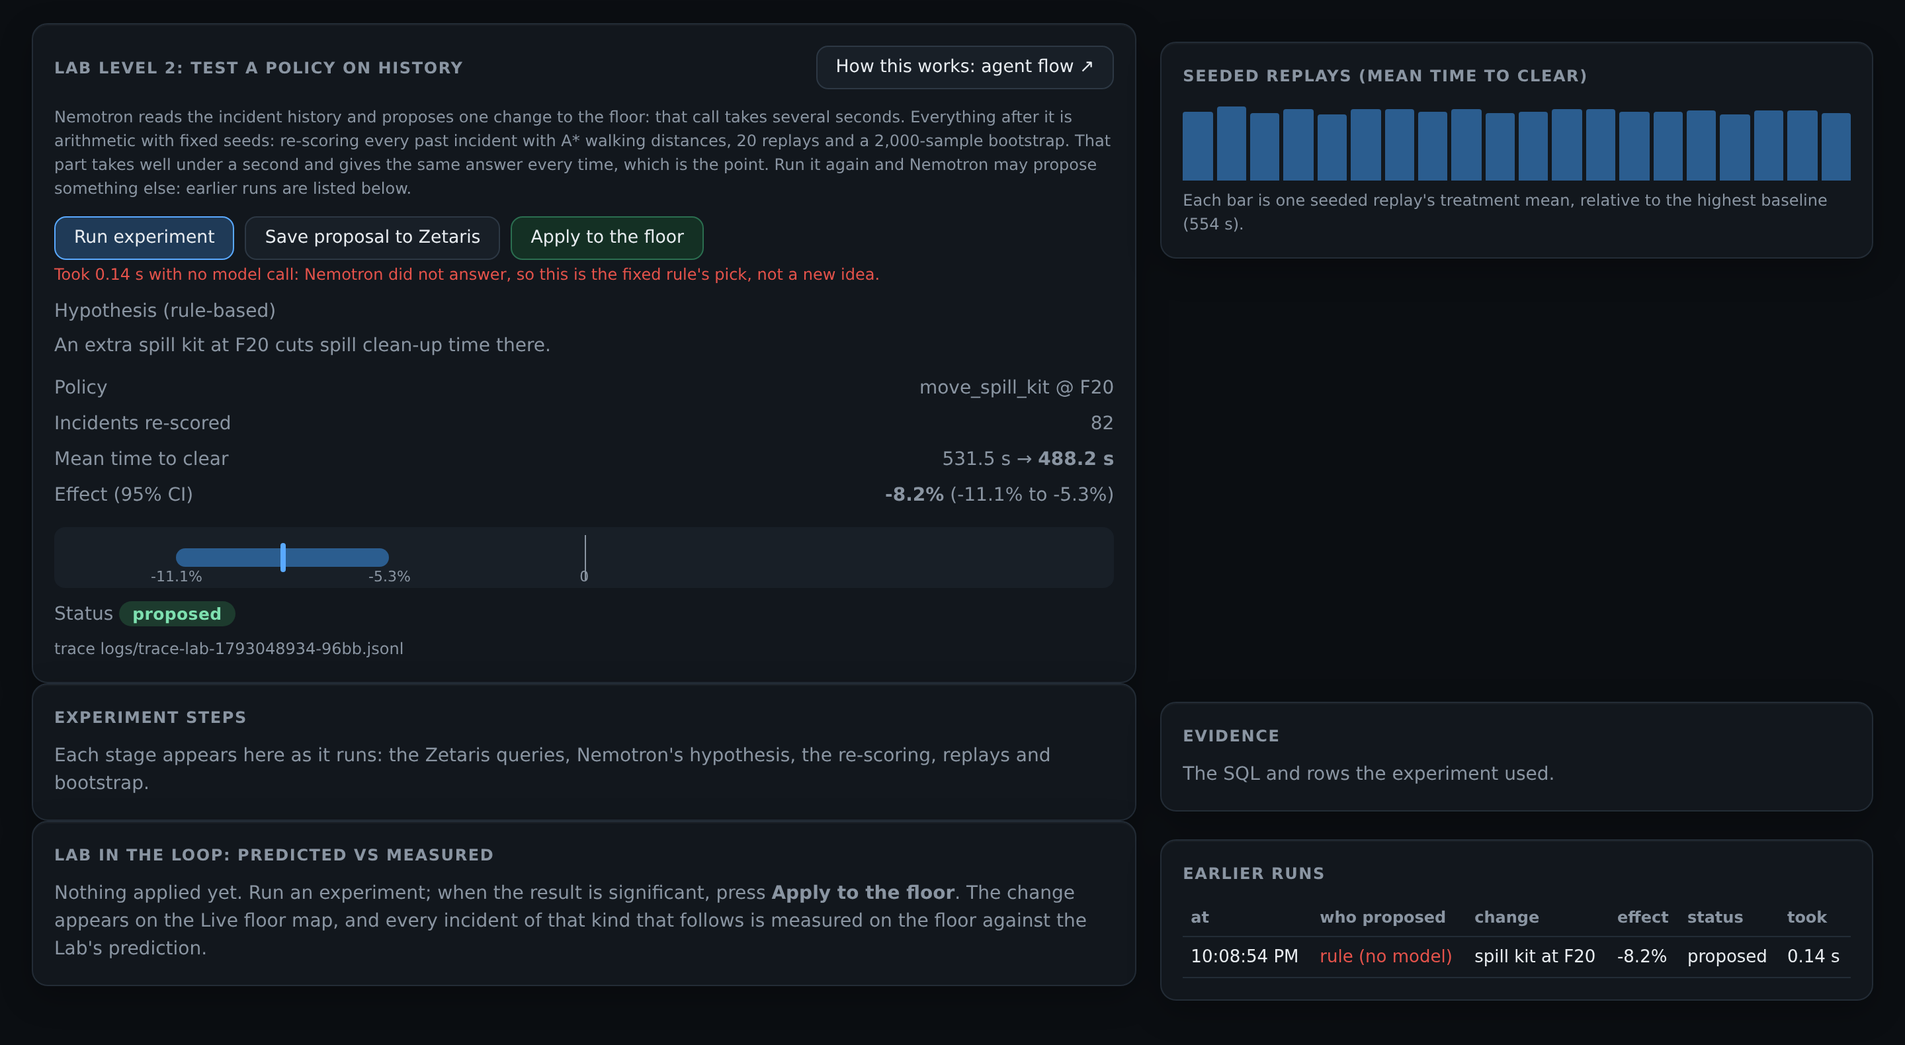
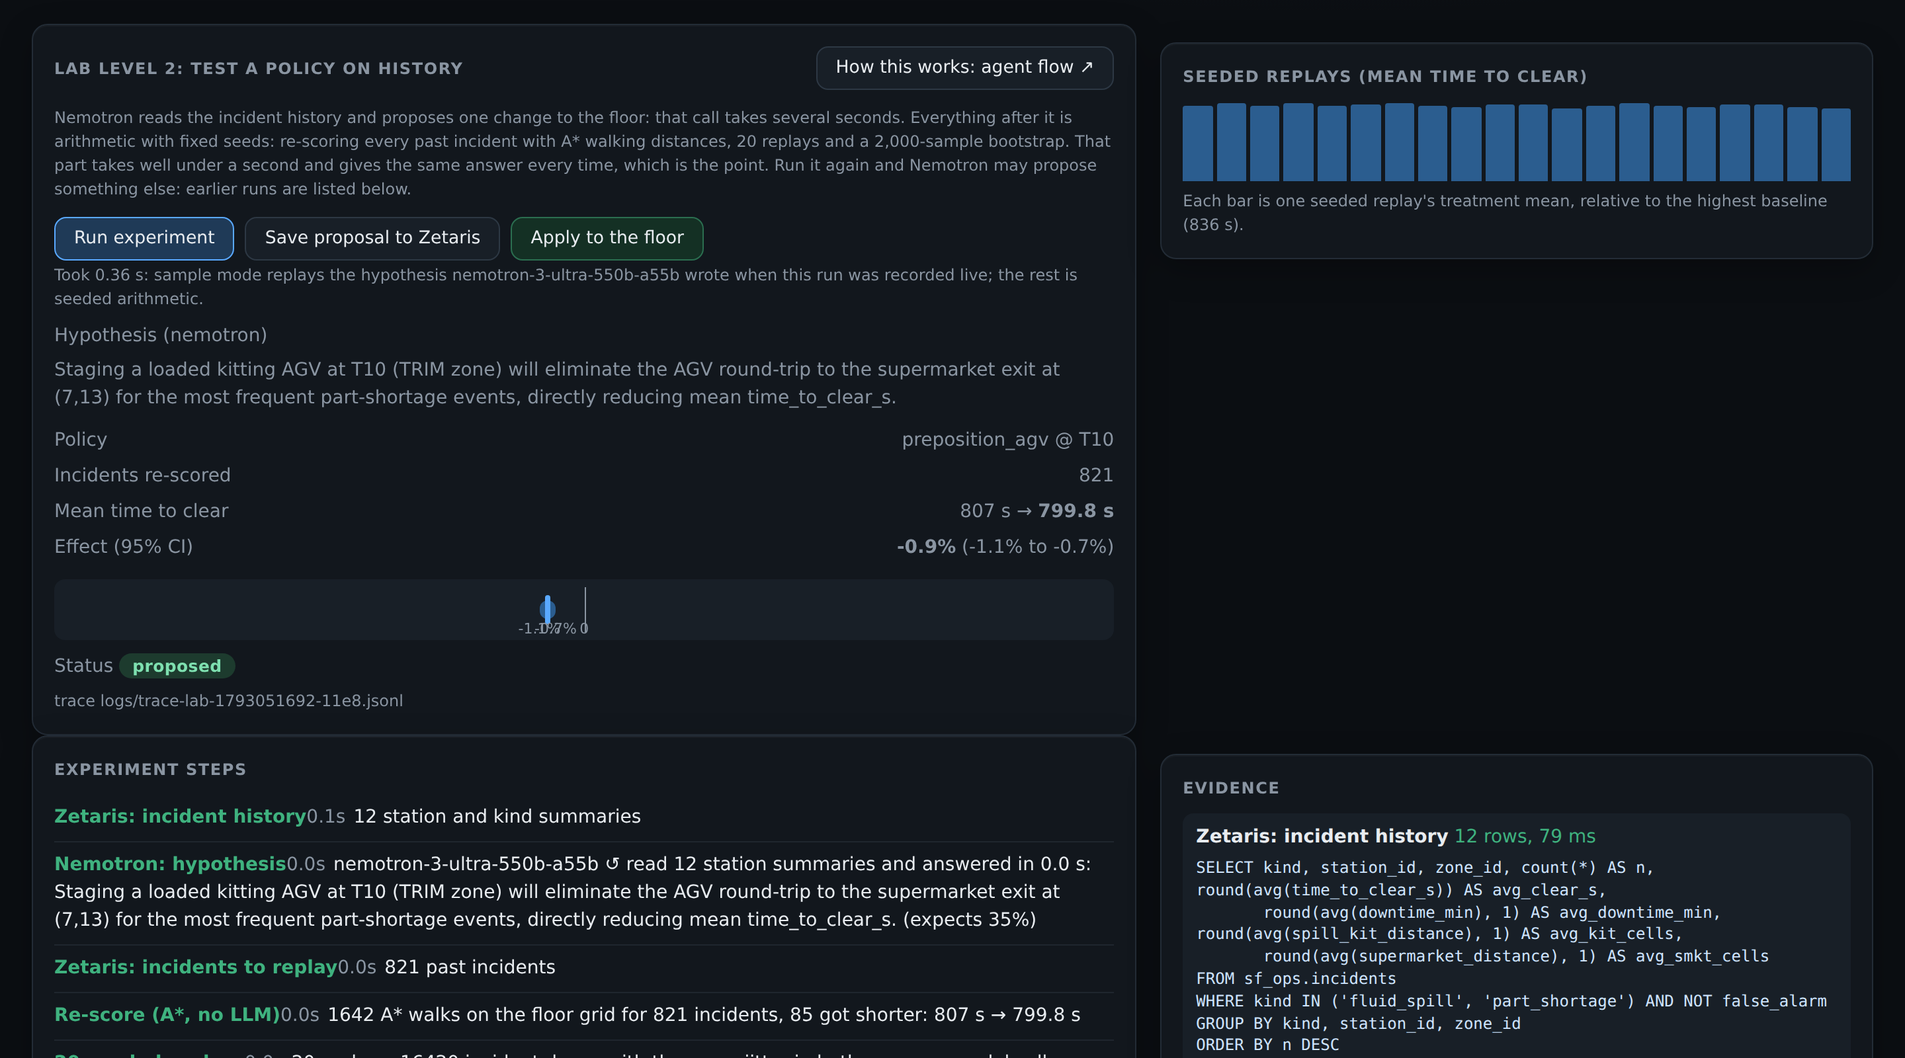
README: floor outcome per incident, Ask and Lab architecture, Lab run answered by Nemotron

diff --git a/web/index.html b/web/index.html
@@ -1393,7 +1393,9 @@ function showLab(r) {
     <div class="note" style="margin-top:6px">Each bar is one seeded replay's treatment mean, relative to the highest baseline (${max.toFixed(0)} s).</div>`;
   $("labwrite").disabled = !r.significant;
   window.LASTLAB = r; $("labapply").disabled = !r.significant || !!(LOOP && LOOP.applied.lab_id === r.lab_id);
-  if (r.seconds != null) $("labout").insertAdjacentHTML("afterbegin", `<div class="note" style="margin-bottom:6px">${r.source === "nemotron"
+  if (r.seconds != null) $("labout").insertAdjacentHTML("afterbegin", `<div class="note" style="margin-bottom:6px">${r.source === "nemotron" && String(r.model || "").includes("(replay)")
+      ? `Took ${r.seconds} s: sample mode replays the hypothesis ${esc(String(r.model).replace(" (replay)", "").replace("nvidia/", ""))} wrote when this run was recorded live; the rest is seeded arithmetic.`
+      : r.source === "nemotron"
       ? `Took ${r.seconds} s: Nemotron ${r.model_latency_s != null ? (+r.model_latency_s).toFixed(1) : "?"} s for the hypothesis${r.model_latency_s != null && r.model_latency_s < 0.5 ? " (Nightshift answered from its memory of an identical question)" : ""}, the rest ${Math.max(0, r.seconds - (r.model_latency_s || 0)).toFixed(2)} s of seeded arithmetic. Each new run tells Nemotron what was already tested, so it proposes something else.`
       : `<span class="bad-t">Took ${r.seconds} s with no model call: Nemotron did not answer, so this is the fixed rule's pick, not a new idea.</span>`}</div>`);
   labRuns();

diff --git a/app/server.py b/app/server.py
@@ -892,11 +892,13 @@ class App:
 
         def work():
             try:
-                from app.fixtures import maybe_sample
+                from app.fixtures import maybe_sample, sample_mode
                 from app.lab.experiment import run_experiment
                 if self.run_sql is None:
                     from app.lab.offline import offline_run_sql
-                    sql, llm_json = offline_run_sql, None  # offline: rule-based hypothesis, generator history
+                    from app import models  # offline: generator history; in sample mode a recorded Nemotron
+                    sql, llm_json = offline_run_sql, (maybe_sample(models.chat_json, "json")  # hypothesis replays,
+                                                      if sample_mode() == "true" else None)  # else a rule picks
                 else:
                     from app import models  # not runtime.chat_json: its one breaker for all roles opens after two
                     sql, llm_json = self.run_sql, maybe_sample(models.chat_json, "json")  # failed incident calls

diff --git a/run.py b/run.py
@@ -137,10 +137,10 @@ def lab(write: bool, target: str = "zetaris"):
     from app.lab.experiment import experiment_row, run_experiment, write_local, write_zetaris
     from app.runtime import chat_json as guarded_json, run_sql as guarded_sql, run_write
 
-    offline = sample_mode() == "true"
-    if offline:  # as the Lab tab offline: generator history, rule-based hypothesis, no Zetaris or Nightshift
+    offline = sample_mode() in ("true", "record")
+    if offline:  # as the Lab tab offline: generator history; a recorded Nemotron hypothesis replays, else a rule picks
         from app.lab.offline import offline_run_sql
-        result = run_experiment(offline_run_sql, None)
+        result = run_experiment(offline_run_sql, maybe_sample(guarded_json, "json"))
     else:
         result = run_experiment(guarded_sql, maybe_sample(guarded_json, "json"))
     h = result["hypothesis"]

diff --git a/tests/test_sample_cli.py b/tests/test_sample_cli.py
@@ -29,7 +29,7 @@ def test_ask_prints_floor_evidence_without_crashing(no_network, capsys):
 def test_lab_runs_offline_and_writes_nothing(no_network, capsys):
     cli.lab(write=True)
     out = capsys.readouterr().out
-    assert "Hypothesis (rule-based)" in out and "95% CI" in out
+    assert "Hypothesis (nemotron)" in out and "95% CI" in out  # the recorded Lab reply replays
     row = json.loads(out.split("Proposal:", 1)[1])
     assert "SAMPLE_MODE: nothing written" in out and row["status"] in ("proposed", "not_significant")
 

diff --git a/README.md b/README.md
@@ -59,7 +59,7 @@ reasoning (Nemotron) into decisions and actions that are checked, simulated, gat
 | Area | Result |
 |---|---|
 | **The rule that matters** | Nemotron proposes; code decides what is safe. Every plan passes a deterministic OSHA critic, a simulated dry run and a restraint gate, and a person approves anything that sends someone into a hazard |
-| **Safety, measured** | 0 unsafe plans executed. The critic caught 216 of 216 planted unsafe plans and wrongly rejected 0 of 54 safe ones; live, Nemotron's first plan broke a rule in 6 of 27 calls and fixed all 6 after the critic's feedback ([docs/eval.md](docs/eval.md)) |
+| **Safety, measured** | 0 unsafe plans executed. The critic caught 216 of 216 planted unsafe plans and wrongly rejected 0 of 54 safe ones; live, Nemotron's first plan (3.5 Super VL as the planner) broke a rule in 6 of 27 calls and fixed all 6 after the critic's feedback ([docs/eval.md](docs/eval.md)) |
 | **Fewer false dispatches** | The Monitor sent 19 false alarms to the floor where a plain threshold alarm sends 235 (600 noisy alarms, Brier 0.096 vs 0.392) |
 | **Failure-tested** | 15 chaos scenarios (a model down, Nightshift down, 60% of calls failing, broken JSON, a different model answering, Zetaris down…) plus a 19-incident shift on flaky models: every one ends in a decision, nothing unsafe runs ([docs/chaos.md](docs/chaos.md)) |
 | **Every model call, signed** | Three NVIDIA Nemotron models, each pinned to its own Nightshift app; every call records the requested and the answering model, and 6,215 of 6,215 Ed25519 receipts verify (`run.py receipts --verify`, 26 Oct 2026) |
@@ -223,6 +223,15 @@ verifier sees the floor move as predicted. **ACT, auto-executed.**
 | 6 | refine | forced | **yes: the critic rejects Nemotron's v2 (R-CROSSING); v2 is dropped, v1 kept** |
 | 7–10 | restraint, gate, executor, verifier | forced | |
 
+**Output: what changed on the floor.**
+![The floor after the part shortage: worker W-18 at F30 and AGV-5 on its way, both ringed as dispatched; the decision panel shows ACT, 1 critic rejection, auto-executed](docs/screenshots/20-floor-after-part-shortage.png)
+
+- **Decision:** ACT, run on its own (a routine plan that passed the critic and the dry run; a person can roll it back).
+- **Dispatched:** team leader W-18 to F30 (there in 4 s) and kitting AGV-5 with the parts (112 s), at 1.0 m/s and
+  slowing to 0.5 m/s at the X-WEST crossing, the rule Nemotron's rejected plan broke.
+- **Checked:** the dry run found 0 collisions, and the verifier saw everyone move as predicted. Waiting would have
+  cost about $5,082, acting about $42.
+
 Input: [`input_examples/example_1.json`](input_examples/example_1.json) · Output: [`output_examples/example_1.json`](output_examples/example_1.json) · All 8 explained: [output_examples/README.md](output_examples/README.md)
 
 ### Incident 2: AGV-3 fault and a stall, where the verifier re-plans
@@ -240,6 +249,15 @@ round sends AGV-2 and the verifier confirms it. **ACT, 1 re-plan.**
 | 10 | verifier | forced | **yes: AGV-1 stalled; back to candidates without it** |
 | 11–12 | candidates, planner | rules router ("re-pick people and robots without the ones that failed") | |
 | 13–19 | critic, dry run, refine, restraint, gate, executor, verifier | forced | |
+
+**Output: what changed on the floor.**
+![The floor after the AGV fault: AGV-3 faulted and fenced at F30, AGV-1 stalled and marked red, AGV-2 dispatched in its place with W-18 at F30](docs/screenshots/21-floor-after-agv-stall.png)
+
+- **Decision:** ACT, after 1 re-plan, run on its own.
+- **What happened on the floor:** the reflex fenced 5 cells around AGV-3. AGV-1 was sent with the parts and stalled
+  5 cells short of where it should have been; the verifier caught it, AGV-1 was taken out of service, and AGV-2
+  went instead (108 s), with W-18 at F30 (28 s).
+- **Checked:** 0 collisions; the second round's verifier saw the floor change as predicted.
 
 Input: [`input_examples/example_2.json`](input_examples/example_2.json) · Output: [`output_examples/example_2.json`](output_examples/example_2.json) · All 8 explained: [output_examples/README.md](output_examples/README.md)
 
@@ -259,6 +277,16 @@ qualified person inspects. No planner and no model call. **VERIFY; the line keep
 | 5–7 | critic, dry run, restraint | forced | |
 | 8 | gate | forced | **waits for a person** |
 
+**Output: what changed on the floor.**
+![The floor after the overheat alarm: a small fence at F10, no AGV moved, the decision panel shows VERIFY waiting for approval for one technician to inspect](docs/screenshots/22-floor-after-overheat.png)
+
+- **Decision:** VERIFY. The line keeps running; nothing is dispatched until a person approves.
+- **Why:** the monitor put the alarm at p = 0.20 (process temperature 315.1 K against a 313.0 K threshold, but the
+  Bosch vibration recording is normal), and the investigator found 1 of the last 3 overheats at F10 was a false
+  alarm. The expected cost of acting now was about $15,042, against $1,800 for checking first.
+- **Next:** maintenance technician W-19 (in-date lockout/tagout) inspects F10, 36 s away, once a person approves,
+  because the check means entering the overheat area. No AGV moves and no collisions.
+
 Input: [`input_examples/example_3.json`](input_examples/example_3.json) · Output: [`output_examples/example_3.json`](output_examples/example_3.json) · All 8 explained: [output_examples/README.md](output_examples/README.md)
 
 ### Sample inputs and outputs
@@ -273,6 +301,39 @@ Examples 1 to 3 are shown above with their screenshots. The other five, each a d
 | [`input_examples/example_8.json`](input_examples/example_8.json): quality defect at end-of-line | A quality inspector contains the affected units (SOP-QUAL-01). Routine, auto-executed | [`output_examples/example_8.json`](output_examples/example_8.json) |
 
 ### Ask the floor: three questions
+How it works (code: [`app/investigate/`](app/investigate)). A question is handled by a team of agents; nothing on the
+floor moves.
+
+```mermaid
+flowchart TB
+  Q(["Question"]) --> IN["Intake: rules"]
+  IN -->|"a write: refused"| REF(["Refused"])
+  IN -->|"a question"| CO["Coordinator: Nemotron splits it into sub-tasks"]
+  CO -->|"plant data"| SQL["SQL agent: Nemotron writes Spark SQL from the table catalogue"]
+  CO -->|"the agents' own history"| LOGA["Log agent: traces, model calls, H-MEM lessons"]
+  CO -->|"stations and AGVs named"| FL["Floor facts: World Model"]
+  SQL --> GRD["SQL guard: one read-only SELECT, sf_* tables, LIMIT"]
+  GRD -->|"refused or Zetaris error: the reason goes back, 1 retry"| SQL
+  GRD -->|"allowed"| ZT[("Zetaris: sf_fleet, sf_hr, sf_plant, sf_ops")]
+  ZT -->|"rows, as evidence E1, E2..."| AN["Analyst: Nemotron writes findings citing evidence ids"]
+  LOGA --> AN
+  FL --> AN
+  AN --> EC["Evidence critic: rules, then a second Nemotron model"]
+  EC -->|"claim not backed by the cited rows"| DROP(["Struck out, shown with the reason"])
+  EC -->|"backed claims"| ANS(["Answer with citations and the SQL behind it"])
+```
+
+Agents called for *"Are overheat alarms real?"* (from its trace):
+
+| Agent | What it did | Model |
+|---|---|---|
+| intake | classified it as a plant question | rules |
+| coordinator | split it into 5 sub-tasks | Nemotron 3.5 Super VL |
+| SQL agent ×4, SQL guard, Zetaris | 4 read-only queries over `sf_ops.incidents` and `sf_plant.machine_telemetry` (5, 8, 8 and 2 rows), run in parallel | Nemotron 3.5 Super VL |
+| log agent | searched the agents' traces and model calls, alongside the SQL | none |
+| analyst | wrote 5 findings, each citing its evidence | Nemotron 3.5 Lightning |
+| evidence critic | kept 4, struck out 1 ("26 false alarms": the rows show 74) | rules, then Nemotron 3.5 Lightning |
+
 | | |
 |---|---|
 | ![Ask the floor answer: F10 keeps stopping mainly because of part shortages and nutrunner torque faults, with five cited findings](docs/screenshots/13-ask-f10.png) | **"Why does F10 keep stopping?"** The coordinator splits the question into three SQL tasks over `sf_ops.incidents` (27 rows), `sf_ops.andon_events` (17) and `sf_plant.machine_telemetry` (47); the log agent adds the agents' own history and the World Model adds floor facts. Five findings, each citing its evidence; the critic drops none. Answer: part shortages and nutrunner torque faults. |
@@ -282,14 +343,39 @@ Examples 1 to 3 are shown above with their screenshots. The other five, each a d
 In sample mode these three questions replay recorded Nemotron replies (the buttons in the UI). Other questions
 get a rule-based summary, not a real answer (see [What sample mode covers](#what-sample-mode-covers)).
 
-### Lab: one experiment
-![Lab run: hypothesis an extra spill kit at F20, 82 incidents re-scored, mean time to clear 531.5 s to 488.2 s, effect -8.2% with 95% CI -11.1% to -5.3%, status proposed](docs/screenshots/16-lab-run.png)
+### Lab: one experiment, proposed by Nemotron
+![Lab run: Nemotron 3 Ultra proposes staging a loaded kitting AGV at T10; 821 past part shortages re-scored; mean time to clear 807 s to 799.8 s; effect -0.9% with 95% CI -1.1% to -0.7%; status proposed](docs/screenshots/16-lab-run.png)
 
-**What happened.** The Lab reads spill and part-shortage history, proposes one floor change (an extra spill kit at
-F20), re-walks all 82 past spills with A* with and without it, runs 20 seeded replays and a 2,000-sample bootstrap:
-**-8.2% time to clear (95% CI -11.1% to -5.3%), significant, status *proposed*.** A person decides whether to save
-it to Zetaris and apply it to the floor. In sample mode the hypothesis comes from a fixed rule, and the page says so
-in red; live, Nemotron proposes it.
+**What happened.** Nemotron 3 Ultra 550B read the per-station history of spills and part shortages and proposed one
+change: *stage a loaded kitting AGV at T10*, so part shortages there skip the trip to the supermarket. Code then
+tested it on history with no model: all 821 past part shortages re-walked with A* with and without the change, 20
+seeded replays and a 2,000-sample bootstrap. **Mean time to clear 807 s → 799.8 s, -0.9% (95% CI -1.1% to -0.7%):
+small but significant, status *proposed*.** A person decides whether to save it to Zetaris and apply it to the
+floor; later part shortages are then measured against the prediction. This run was recorded live through Nightshift
+on 26 Oct 2026 (Ultra answered in 2.9 s), and sample mode replays that reply, so the same run appears offline.
+
+How it works (code: [`app/lab/`](app/lab)):
+
+```mermaid
+flowchart TB
+  ZT[("Zetaris: incident history")] -->|"per-station summary"| HYP["Hypothesis: Nemotron proposes one floor change"]
+  HYP -->|"Nemotron down: a fixed rule picks, and the page says so"| HYP
+  HYP --> RS["Re-score every past incident: A* walks with and without the change"]
+  RS --> REP["20 seeded replays and a bootstrap 95% CI: no model"]
+  REP -->|"significant"| PER(["A person saves it to Zetaris and applies it"])
+  REP -->|"not significant: the next run is told what was tried"| HYP
+  PER --> MEAS["Later incidents of that kind measured: predicted vs measured"]
+  MEAS -->|"the measured result goes into the next hypothesis"| HYP
+```
+
+| Step | Agent | What it did in this run | Model |
+|---|---|---|---|
+| 1 | history | one Zetaris query: 12 station and kind summaries | none |
+| 2 | hypothesis | "stage a loaded kitting AGV at T10" | Nemotron 3 Ultra 550B |
+| 3 | incidents | 821 past part shortages to replay | none |
+| 4 | re-score | 1,642 A* walks; 85 incidents got shorter | none |
+| 5 | replays, bootstrap | 20 seeded replays, 2,000 resamples: -0.9% (95% CI -1.1% to -0.7%), significant | none |
+| 6 | a person | *Save proposal to Zetaris*, *Apply to the floor* | – |
 
 ## Outputs: what a run returns and writes
 Every run returns one JSON result and writes a trace, so a person can check afterwards what the agents did and why.
@@ -408,8 +494,9 @@ Lab replays and the Markovian chunking.
 4. **Autopilot shift.** `SAMPLE_MODE=true .venv/bin/python run.py shift --minutes 2 --seed 7`: the Sentinel
    raises 5 incidents from 66 signals, up to 3 run at once, 4 resolve on their own and 1 waits for a person,
    0 runtime-invariant violations.
-5. **Lab.** `SAMPLE_MODE=true .venv/bin/python run.py lab`: a spill kit at F20, 82 past spills re-scored, 20 seeded
-   replays, -8.2% time to clear (95% CI -11.1% to -5.3%). The hypothesis is rule-based in sample mode, and
+5. **Lab.** `SAMPLE_MODE=true .venv/bin/python run.py lab`: Nemotron 3 Ultra's recorded hypothesis (a loaded AGV
+   staged at T10), 821 past part shortages re-scored, 20 seeded replays, -0.9% time to clear (95% CI -1.1% to
+   -0.7%). The hypothesis is replayed from the live recording; everything after it is computed, and
    `--write` writes nothing.
 6. **Shift handover (Meterless Markovian).** `SAMPLE_MODE=true .venv/bin/python run.py handover` reads the
    journal that step 4 wrote, in bounded chunks with carryover, and prints a handover note that says
@@ -437,7 +524,7 @@ Lab replays and the Markovian chunking.
 | Incident trace | `run.py incident --kind agv_fault --agv AGV-3 --station F30 --stall-after 2` | Yes | as above | as above, including the verifier's re-plan |
 | Ask the floor | `run.py ask "..."`, *Ask the floor* tab | Yes, 3 recorded questions | coordinator, SQL agent, analyst and evidence critic replies for those 3 | intake, SQL guard, log agent, the critic's rule checks; any other question gets a rule-based summary over an offline SQLite copy |
 | Autopilot shift | `run.py shift --minutes 2 --seed 7` | Yes | recorded replies where they exist | Sentinel detectors, dispatcher, leases, arbiter, each incident's loop |
-| Lab | `run.py lab`, *Lab* tab | Yes | nothing: the hypothesis is rule-based | history from the generator, A* re-scoring, 20 seeded replays, bootstrap CI |
+| Lab | `run.py lab`, *Lab* tab | Yes | Nemotron 3 Ultra's hypothesis, recorded live for the first run; a fixed rule picks when no recording matches | history from the generator, A* re-scoring, 20 seeded replays, bootstrap CI |
 | Shift handover | `run.py handover` | Yes | nothing: the note is rule-based | Markovian chunks, carryover, token accounting |
 | Re-check a decision | `GET /api/verify/<id>` | Yes | – | critic, gate, data snapshot and journal checks |
 | Evaluation | `run.py eval` | Yes (5 s) | – | 216 planted unsafe plans, Monitor calibration; `--live` needs Nightshift |
@@ -747,11 +834,6 @@ The README stays short; the details live in `docs/`.
 - **Rules are a sample, not a safety case.** About a dozen rules are checked; only the OSHA clauses are real (the
   SOPs are synthetic); a rule the critic cannot check blocks automatic action instead of being ignored. Clause
   excerpts are not legal advice.
-- **Three models answer.** Nemotron 3 Ultra 550B, 3.5 Super VL and 3.5 Lightning answer our app;
-  Llama-3.3-Nemotron-Super 49B is a judge lane that refuses direct requests. Ultra was pinned on the last build day,
-  so the evaluation numbers above were measured with Super VL as the planner. Per-role pinning relies on lane
-  allowlists in Nightshift's app policy (no cockpit control); the self-check and drift warnings make any change
-  visible.
 - **Nemotron's plan seldom replaces the rules plan.** The first plan (v1) is an optimal assignment for the same
   score the refine step compares, so Nemotron's v2 can tie it but rarely beat it on that score. Live, v2 mostly
   picked the same team, and when it differed the critic caught a rule it broke. Nemotron's value is in routing,

diff --git a/docs/USER_GUIDE.md b/docs/USER_GUIDE.md
@@ -61,7 +61,7 @@ critic strikes out any claim the rows do not back (above: "26 false alarms" when
 - In sample mode only the three sample questions have recorded answers; other questions get a rule-based summary.
 
 ## Lab
-![Lab: an experiment testing an extra spill kit at F20, with the effect, its 95% confidence interval and the seeded replays](screenshots/16-lab-run.png)
+![Lab: Nemotron's proposal to stage a loaded kitting AGV at T10, with the effect, its 95% confidence interval and the seeded replays](screenshots/16-lab-run.png)
 
 Test a change to the floor against history before making it. *Run experiment*: the Lab proposes one change (a spill
 kit at a station, or a loaded AGV waiting at one), re-walks every past incident of that kind with and without it,
@@ -70,8 +70,8 @@ runs 20 seeded replays and gives the change in mean time to clear with a 95% int
 - **Save proposal to Zetaris** writes it to `sf_ops.experiments` through Zetaris.
 - **Apply to the floor** puts the change on the map; every later incident of that kind is measured against the
   prediction under *Lab in the loop: predicted vs measured*. *Remove the change* takes it off.
-- A red line under the buttons means the hypothesis came from a fixed rule, not Nemotron (always the case in
-  sample mode).
+- A red line under the buttons means the hypothesis came from a fixed rule, not Nemotron (in sample mode the first
+  run replays a hypothesis Nemotron 3 Ultra wrote live; later runs use the rule).
 
 ## Nemotron at work
 ![Nemotron at work: model answers, receipts verified, plans the critic sent back, and answers by model](screenshots/18-nemotron-at-work.png)

diff --git a/docs/sponsors/NVIDIA.md b/docs/sponsors/NVIDIA.md
@@ -55,7 +55,7 @@ saw it.
 
 What the table shows:
 - **Ultra answered few planner calls (31 of 408).** Ultra was pinned on the last build day, so most planner calls
-  before that went to Super VL (README *Limitations*).
+  before that went to Super VL.
 - **Requested is not always answering.** In 100 of the 3,603 calls Nightshift served a different model from the
   one requested; every one is logged with both names.
 - **The sql_agent and coordinator medians are under 1 s.** We did not investigate why for this write-up.
